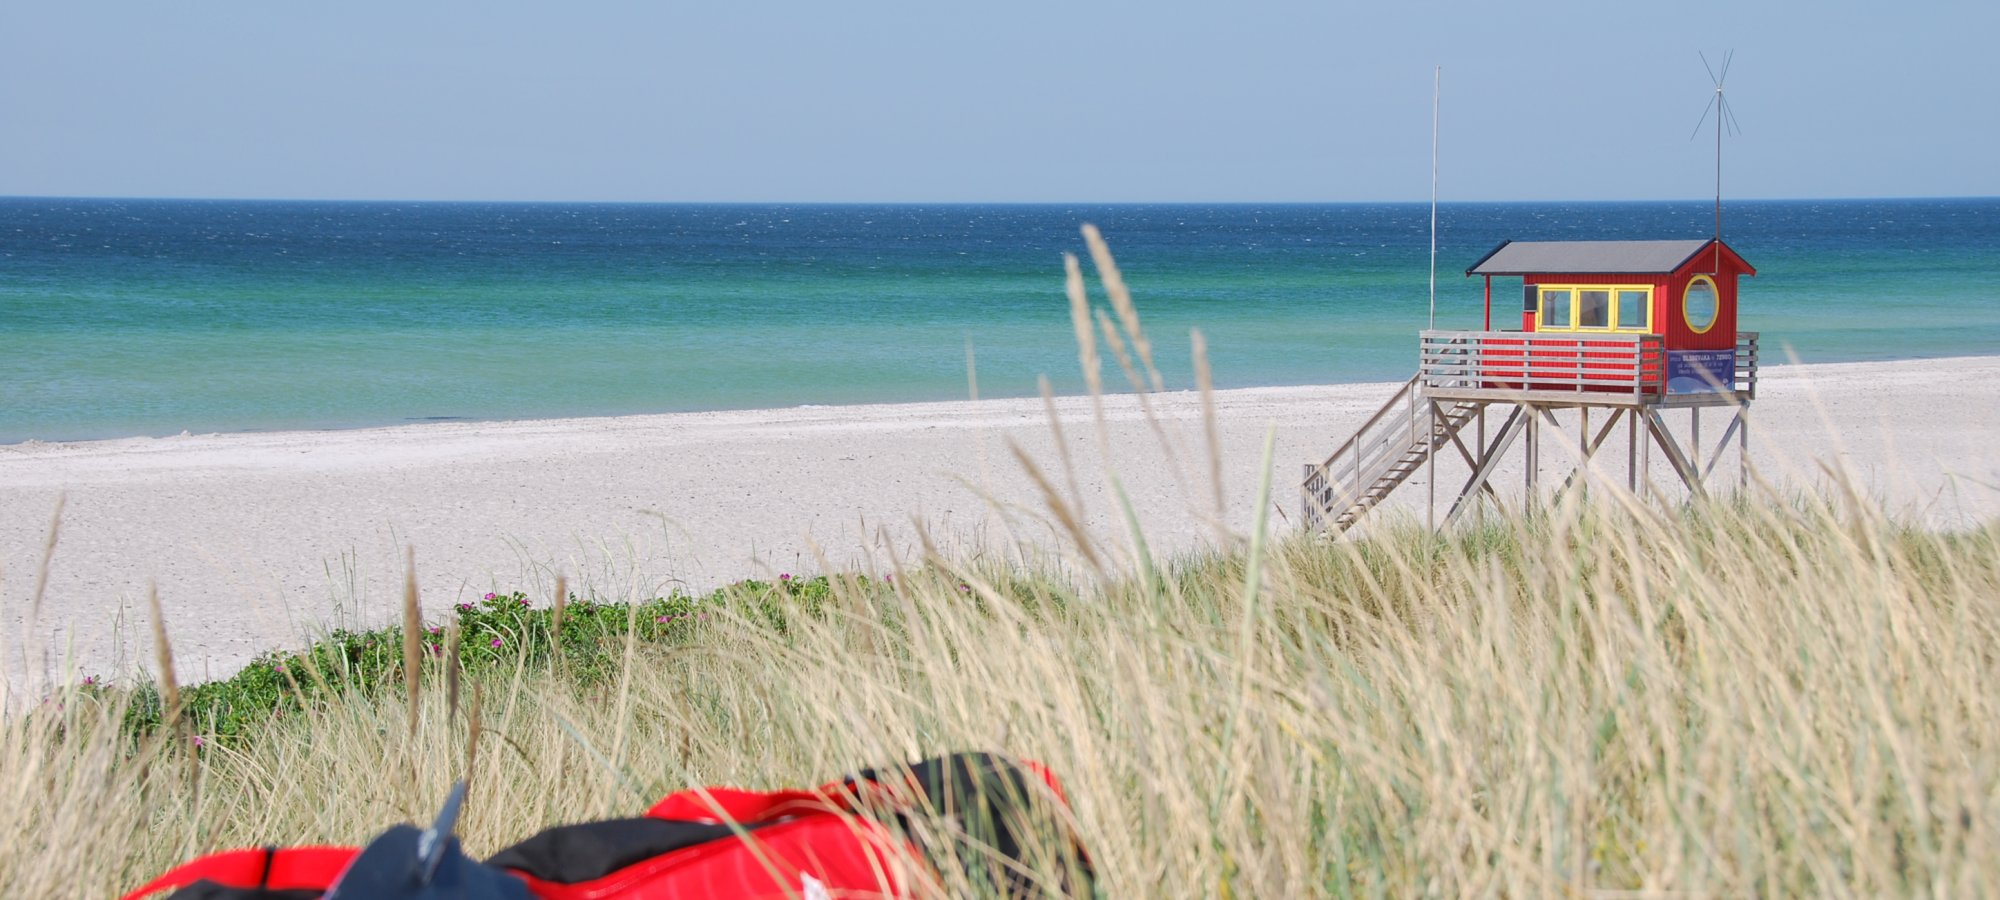
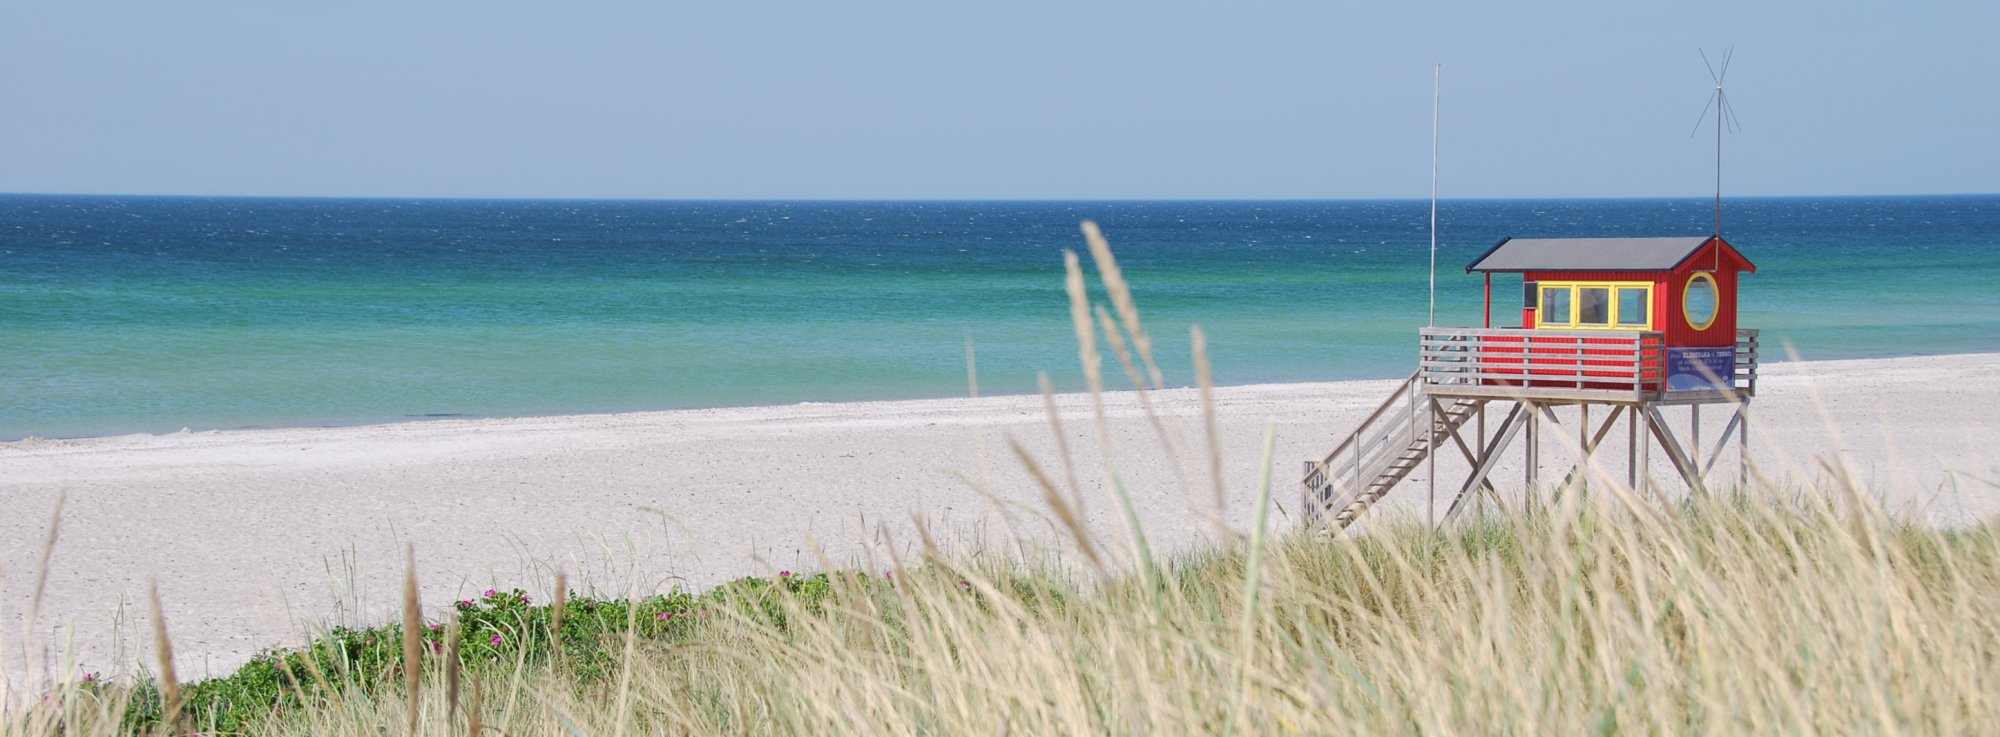
rls fixes

diff --git a/site/templates/home.html b/site/templates/home.html
@@ -10,7 +10,7 @@
 {% set slides = bag('home-slideshow') %}
 {% block body %}
 
-  <div class='jarallax' style='min-height: 60vh; background-image: url({{ images.get('home-ksurf-banner.jpg') | url }})'>
+  <div class='jarallax' style='min-height: 60vh; background-image: url({{ images.get('home-ksurf-banner-2.jpg') | url }})'>
     <div class="container">
       <div class="row">
         <div class="col-xs-12">

diff --git a/site/assets/static/main.css b/site/assets/static/main.css
@@ -41,7 +41,7 @@ h1, h2, h3, h4, h5 {
 
 #surf .jarallax {
     position: relative;
-    background-size: cover;
+    background-size: contain;
     background-repeat: no-repeat;
     background-position: 50% 50%;
 }
